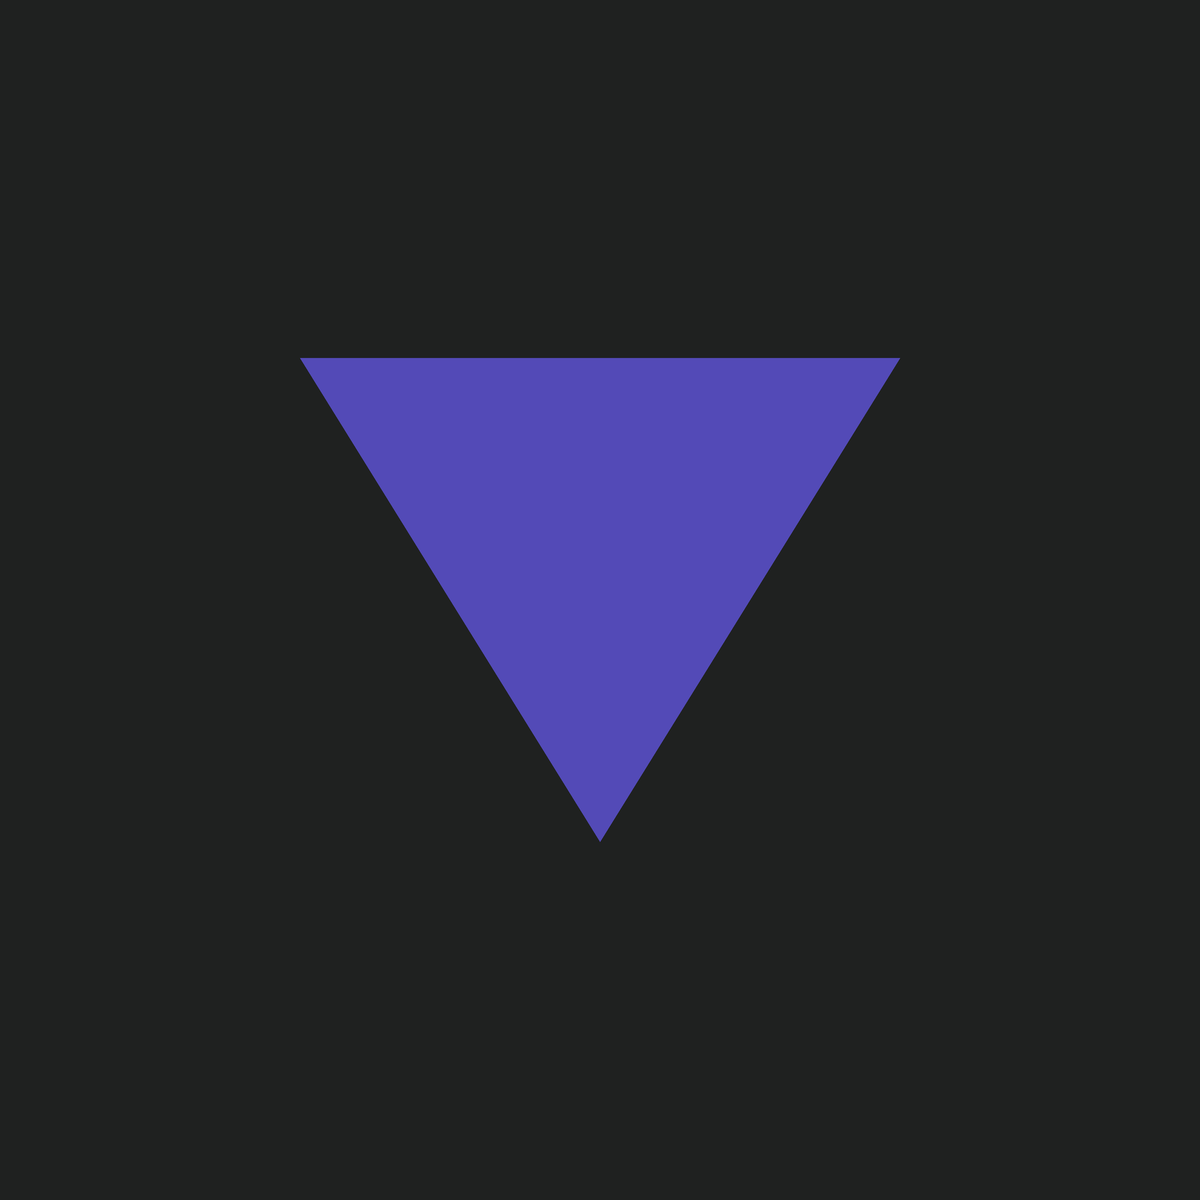
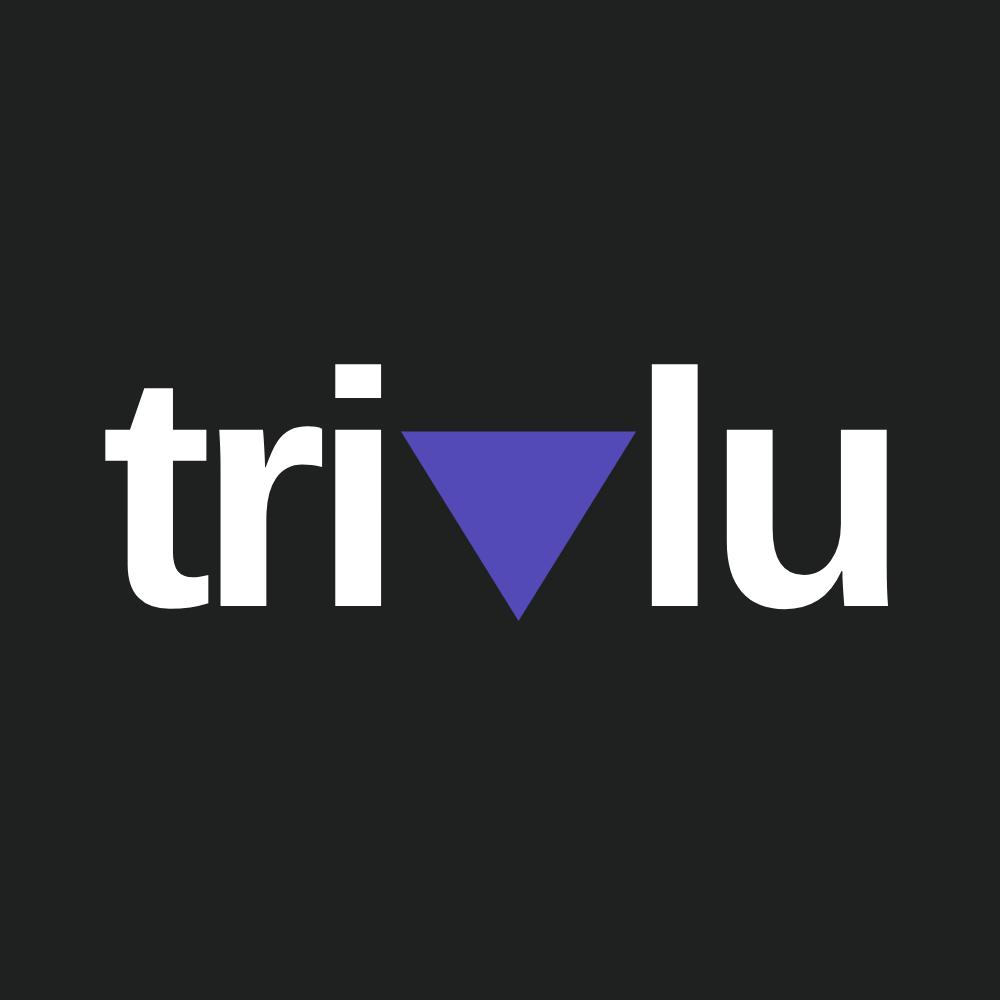
feat(brand): use full trivlu wordmark for social preview image
Social previews read better with the brand name visible, so og-image.png is
now the full "trivlu" lockup (triangle as the 'v') on the dark card, instead
of the bare triangle. og:image dimensions updated to 1000x1000.

Changed region(s): [[0.093, 0.279, 0.899, 0.713]]

diff --git a/myhive-react-app/public/index.html b/myhive-react-app/public/index.html
@@ -34,8 +34,8 @@
          back to whatever preview they cached long ago. -->
     <meta property="og:url" content="https://www.trivlu.com"/>
     <meta property="og:image" content="https://www.trivlu.com/og-image.png"/>
-    <meta property="og:image:width" content="1200"/>
-    <meta property="og:image:height" content="1200"/>
+    <meta property="og:image:width" content="1000"/>
+    <meta property="og:image:height" content="1000"/>
     <meta property="og:image:type" content="image/png"/>
     <meta name="twitter:card" content="summary"/>
     <meta name="twitter:image" content="https://www.trivlu.com/og-image.png"/>
